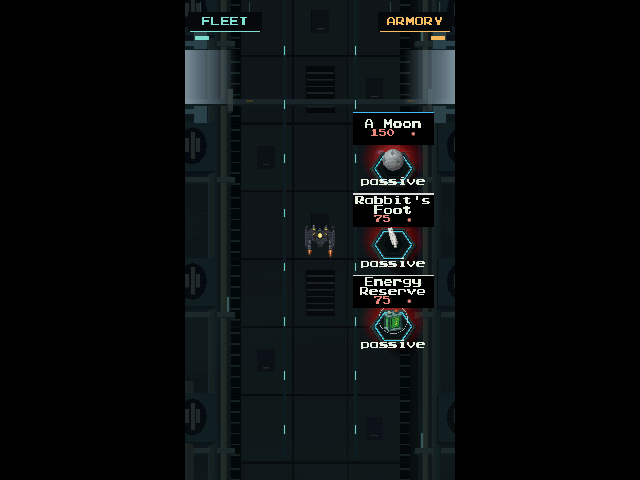
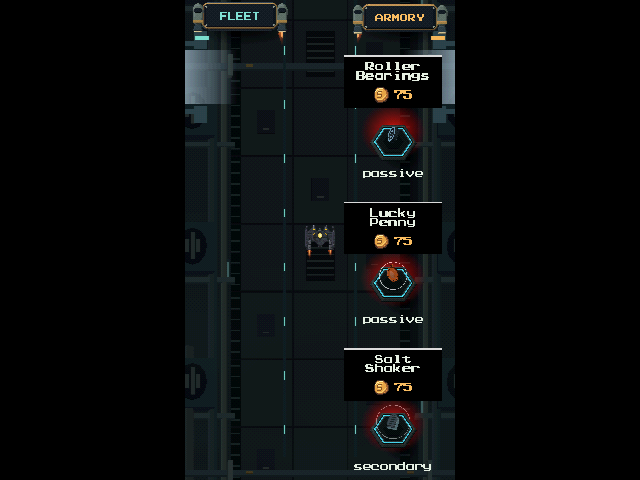
Space the three outfitter offers and give each price its own stamped coin row

diff --git a/Assets/Scripts/Run/HangarHub.cs b/Assets/Scripts/Run/HangarHub.cs
@@ -20,7 +20,8 @@ public sealed partial class HangarHub : MonoBehaviour
     static RunDifficulty difficulty = RunDifficulty.Normal;
     // The tunnel phase on the frame its motion transfers to the incoming dock camera.
     static float tunnelTravel;
-    static readonly Vector2[] plinthSpots = { new Vector2(2.7f, -3), new Vector2(2.7f, 0), new Vector2(2.7f, 3) };
+    static readonly Vector2[] plinthSpots = { new Vector2(2.7f, -6.8f), new Vector2(2.7f, -1.4f), new Vector2(2.7f, 4) };
+    const float PlacardHeight = 1.84f, ClassDrop = 1.54f;
     public const float DeckExtension = 32f;
     const float PlinthReach = .95f, GateHalfWidth = 1.55f;
 
@@ -31,8 +32,8 @@ public sealed partial class HangarHub : MonoBehaviour
         public Vector3 spot;
         public Transform disc, shadow;
         public bool sent, positioned;
-        public TextMeshProUGUI label;
-        public RectTransform category;
+        public TextMeshProUGUI price;
+        public RectTransform plaque, category;
         public int lastBank = -1;
         public bool pinned;
     }
@@ -137,8 +138,10 @@ public sealed partial class HangarHub : MonoBehaviour
 
     DockReadouts readouts;
     Material scenery;
-    Transform stockScreen;
+    RectTransform stockScreen;
     TextMeshProUGUI stockInfo, walletText;
+    RectTransform walletPanel;
+    Sprite coinStamp;
     Dialog dialog;
     readonly List<Mesh> quads = new List<Mesh>();
     bool launching, deckReady;
@@ -239,6 +242,7 @@ public sealed partial class HangarHub : MonoBehaviour
     void BuildShop()
     {
         dialog = GameObject.FindGameObjectWithTag("Dialog")?.GetComponent<Dialog>();
+        coinStamp = Resources.Load<Sprite>("DockArt/DockCoin");
         var stock = MetaProgress.Stock;
         var glowVertices = new List<Vector3>();
         var glowColors = new List<Color>();
@@ -264,29 +268,57 @@ public sealed partial class HangarHub : MonoBehaviour
             plinths.Add(plinth);
             GalleryWell(glowVertices, glowColors, glowTriangles, plinthSpots[i], 1.22f,
                 new Color(1, .07f, .035f, .88f), new Color(.85f, .025f, .016f, 0));
-            var plaque = MountedPanel("Stock placard", plinthSpots[i] + Vector2.up * 1.11f, new Vector2(3, 1.23f));
+            var plaque = plinth.plaque = MountedPanel("Stock placard", plinthSpots[i] + Vector2.up * PlacardHeight, new Vector2(3.62f, 1.94f));
             plaque.GetComponent<Image>().color = Color.black;
-            DockInstrument.Block(plaque, "Rarity edge", new Vector2(0, 59), new Vector2(300, 5), AItem.GetRarityColor(plinth.item.rarity));
-            plinth.category = MountedPanel("Equipment class", plinthSpots[i] + Vector2.down * .85f, new Vector2(3, .45f));
+            DockInstrument.Block(plaque, "Rarity edge", new Vector2(0, 94), new Vector2(362, 5), AItem.GetRarityColor(plinth.item.rarity));
+            WorldLabel(plaque, plinth.item.GetData()[0], new Vector2(0, 38), new Vector2(338, 91), 34, DockInstrument.Paper);
+            plinth.price = CoinRow(plaque, -49, 330);
+            plinth.category = MountedPanel("Equipment class", plinthSpots[i] + Vector2.down * ClassDrop, new Vector2(3.4f, .50f));
             plinth.category.GetComponent<Image>().enabled = false;
-            WorldLabel(plinth.category, DecisionOverlay.Category(plinth.item), Vector2.zero, new Vector2(286, 47), 34, DockInstrument.Paper);
-            plinth.label = WorldLabel(plaque, "", Vector2.zero, new Vector2(289, 115), 35, DockInstrument.Paper);
+            WorldLabel(plinth.category, DecisionOverlay.Category(plinth.item), Vector2.zero, new Vector2(334, 50), 32, DockInstrument.Paper);
             plaque.gameObject.SetActive(false);
             plinth.category.gameObject.SetActive(false);
         }
         GallerySurface("Outfitter red footlights", glowVertices, glowColors, glowTriangles, -6);
     }
 
+    TextMeshProUGUI CoinRow(RectTransform face, float y, float width)
+    {
+        var row = new GameObject("Coin amount", typeof(RectTransform), typeof(HorizontalLayoutGroup)).GetComponent<RectTransform>();
+        row.SetParent(face, false);
+        row.anchoredPosition = new Vector2(0, y);
+        row.sizeDelta = new Vector2(width, 62);
+        var layout = row.GetComponent<HorizontalLayoutGroup>();
+        layout.childAlignment = TextAnchor.MiddleCenter;
+        layout.spacing = 21;
+        layout.childForceExpandWidth = layout.childForceExpandHeight = false;
+        layout.childControlWidth = layout.childControlHeight = true;
+        var icon = new GameObject("Stamped coin", typeof(RectTransform), typeof(Image), typeof(LayoutElement)).GetComponent<Image>();
+        icon.transform.SetParent(row, false);
+        icon.sprite = coinStamp;
+        icon.raycastTarget = false;
+        var dimensions = icon.GetComponent<LayoutElement>();
+        dimensions.preferredWidth = dimensions.preferredHeight = 56;
+        var amount = WorldLabel(row, "0", Vector2.zero, row.sizeDelta, 34, DockInstrument.Brass);
+        amount.enableAutoSizing = false;
+        amount.textWrappingMode = TextWrappingModes.NoWrap;
+        return amount;
+    }
+
     void UpdateWallet()
     {
-        bool near = player != null && player.transform.position.x > center.x + 1 &&
-            Mathf.Abs(player.transform.position.y - center.y) < 5.8f && room < 0;
-        walletText.transform.parent.gameObject.SetActive(near);
-        walletText.text = "●  " + MetaProgress.Coins;
-        int closest = NearestPlinth(player.transform.position);
-        stockScreen.gameObject.SetActive(closest >= 0 && room < 0);
+        int near = room < 0 ? NearestPlinth(player.transform.position, 2.45f) : -1;
+        walletPanel.gameObject.SetActive(near >= 0);
+        if (near >= 0)
+        {
+            readouts.Aim(walletPanel, plinths[near].spot + new Vector3(-4.22f, 2.24f));
+            walletText.text = MetaProgress.Coins.ToString();
+        }
+        int closest = near >= 0 ? NearestPlinth(player.transform.position) : -1;
+        stockScreen.gameObject.SetActive(closest >= 0);
         if (closest >= 0)
         {
+            readouts.Aim(stockScreen, plinths[closest].spot + Vector3.left * 4.22f);
             var data = plinths[closest].item.GetData();
             stockInfo.text = data[2] + "\n\n<size=80%>" +
                 DockInstrument.FireKey() + " BUY  " + DockInstrument.FireKey(true) + " PIN</size>";
@@ -463,12 +495,12 @@ public sealed partial class HangarHub : MonoBehaviour
                 continue;
             if (offer.item.enabled && offer.sent && offer.item.Settled)
                 offer.item.enabled = false;
-            offer.label.transform.parent.gameObject.SetActive(offer.sent && !offer.item.IsDismissing);
+            offer.plaque.gameObject.SetActive(offer.sent && !offer.item.IsDismissing);
             offer.category.gameObject.SetActive(offer.sent && !offer.item.IsDismissing);
             if (offer.sent && !offer.positioned)
             {
-                readouts.Aim((RectTransform)offer.label.transform.parent, offer.item.transform.position + Vector3.up * 1.11f);
-                readouts.Aim(offer.category, offer.item.transform.position + Vector3.down * .85f);
+                readouts.Aim(offer.plaque, offer.item.transform.position + Vector3.up * PlacardHeight);
+                readouts.Aim(offer.category, offer.item.transform.position + Vector3.down * ClassDrop);
                 offer.positioned = offer.item.Settled;
             }
             bool pinned = MetaProgress.Pin == offer.kind;
@@ -477,9 +509,8 @@ public sealed partial class HangarHub : MonoBehaviour
             offer.lastBank = MetaProgress.Coins;
             offer.pinned = pinned;
             int price = MetaProgress.Price(offer.item.rarity);
-            string tint = MetaProgress.Coins >= price ? "#F4C16C" : "#EB8A7C";
-            offer.label.text = offer.item.GetData()[0] + "\n<size=85%><color=" + tint + ">" +
-                (MetaProgress.Pin == offer.kind ? "PIN  " : "") + price + "  ●</color></size>";
+            offer.price.color = MetaProgress.Coins >= price ? DockInstrument.Brass : new Color(.92f, .54f, .49f);
+            offer.price.text = price + (pinned ? "  <size=65%>PIN</size>" : "");
         }
         UpdateWallet();
     }
@@ -496,10 +527,10 @@ public sealed partial class HangarHub : MonoBehaviour
         cameraTravel = travel;
     }
 
-    int NearestPlinth(Vector3 p)
+    int NearestPlinth(Vector3 p, float reach = PlinthReach)
     {
         int best = -1;
-        float closest = PlinthReach;
+        float closest = reach;
         for (int i = 0; i < plinths.Count; i++)
         {
             if (plinths[i].item == null || plinths[i].item.IsDismissing)

diff --git a/Assets/Editor/Checks/VerifyHangarDeck.cs b/Assets/Editor/Checks/VerifyHangarDeck.cs
@@ -66,6 +66,11 @@ public static class VerifyHangarDeck
         SessionState.SetBool("InspectDockLane", true);
         Run();
     }
+    public static void Outfitter()
+    {
+        SessionState.SetBool("InspectOutfitter", true);
+        Run();
+    }
     public static void Endings()
     {
         SessionState.SetBool("InspectFlightEndings", true);
@@ -114,6 +119,9 @@ public sealed class HangarDeckReview : MonoBehaviour
             throw new InvalidOperationException("Dock review needs its disposable checkout");
         var scratch = Directory.CreateDirectory(Path.Combine(project, "Temp", "PilotReview", Guid.NewGuid().ToString("N")));
         MetaProgress.ReviewSaveDirectory = scratch.FullName;
+        if (SessionState.GetBool("InspectOutfitter", false))
+            File.WriteAllText(Path.Combine(scratch.FullName, "hangar.json"),
+                "{\"version\":2,\"lastFrame\":1,\"coins\":9999,\"ship\":\"GR07\",\"unlocked\":[\"Popcorn\"],\"stock\":[\"SaltShaker\",\"LuckyPenny\",\"RollerBearings\"],\"loadout\":[]}");
         Application.runInBackground = true;
         Application.logMessageReceived += OnLog;
     }
@@ -210,6 +218,14 @@ public sealed class HangarDeckReview : MonoBehaviour
         while ((hub = FindAnyObjectByType<HangarHub>()) == null || CloudTransition.Busy || HangarHub.HoldingShip)
             yield return null;
         yield return new WaitForSecondsRealtime(2);
+        if (SessionState.GetBool("InspectOutfitter", false))
+        {
+            SessionState.SetBool("InspectOutfitter", false);
+            yield return OutfitterAndBerths();
+            Check(error == null, error ?? "no gameplay errors in the outfitter or fleet");
+            File.WriteAllText(VerifyHangarDeck.Folder + "/Result.txt", "PASS");
+            yield break;
+        }
         if(SessionState.GetBool("InspectPressureDoor",false))
         {
             SessionState.SetBool("InspectPressureDoor",false);
@@ -381,6 +397,85 @@ public sealed class HangarDeckReview : MonoBehaviour
         }
         Debug.Log("Gallery population " + Frames(timings));
     }
+    IEnumerator OutfitterAndBerths()
+    {
+        InputSystem.settings.editorInputBehaviorInPlayMode = InputSettings.EditorInputBehaviorInPlayMode.AllDeviceInputAlwaysGoesToGameView;
+        var keys = InputSystem.AddDevice<Keyboard>();
+        void Press(params Key[] state)
+        {
+            InputSystem.QueueStateEvent(keys, new KeyboardState(state));
+            InputSystem.Update();
+        }
+        var ship = FindAnyObjectByType<Shipcontroller>().transform;
+        void Place(float x, float y) => ship.position = new Vector3(x, y, ship.position.z);
+        T Field<T>(string name) => (T)typeof(HangarHub).GetField(name, BindingFlags.Instance | BindingFlags.NonPublic).GetValue(hub);
+        Place(0, 0);
+        yield return Capture("OutfitterSpacing");
+        var offers = hub.GetComponentsInChildren<AItem>().OrderBy(o => o.transform.position.y).ToArray();
+        Check(offers.Length == 3 && offers[1].GetData()[0] == "Lucky Penny" &&
+            offers[1].transform.position.y - offers[0].transform.position.y > 5 &&
+            offers[2].transform.position.y - offers[1].transform.position.y > 5, "three separated right-lane offers from the reference");
+        var rows = hub.GetComponentsInChildren<HorizontalLayoutGroup>().Where(row => row.transform.parent.name == "Stock placard").ToArray();
+        Check(rows.Length == 3, "each stock placard has a dedicated price row");
+        foreach (var row in rows)
+        {
+            var icon = row.GetComponentInChildren<Image>().rectTransform;
+            var number = row.GetComponentInChildren<TMPro.TMP_Text>().rectTransform;
+            var a = new Vector3[4];
+            var b = new Vector3[4];
+            icon.GetWorldCorners(a);
+            number.GetWorldCorners(b);
+            Check(icon.GetComponent<Image>().sprite.name == "DockCoin" && a[2].x - a[0].x >= 12 &&
+                b[0].x - a[2].x >= 4 && Mathf.Abs(icon.position.y - number.position.y) < 1,
+                "stamped coin and amount have separate, aligned bounds at gameplay size");
+        }
+        Check(!Field<RectTransform>("walletPanel").gameObject.activeSelf, "wallet stays dark away from stock");
+        Place(2.7f, -1.4f);
+        yield return Capture("OutfitterPrice");
+        Check(Field<RectTransform>("walletPanel").gameObject.activeSelf && Field<TMPro.TMP_Text>("walletText").text == "9999", "nearby wallet reads the full bank");
+        Press(Key.X);
+        yield return null;
+        Press();
+        Check(MetaProgress.Pin == "LuckyPenny", "secondary pins the approached offer");
+        int cost = MetaProgress.Price(offers[1].rarity);
+        Press(Key.Z);
+        yield return null;
+        Press();
+        Check(!MetaProgress.Stock.Contains("LuckyPenny") && MetaProgress.Coins == 9999 - cost, "buying debits the displayed price");
+        Place(-23.6f, 6);
+        yield return new WaitForSeconds(.8f);
+        yield return Capture("FleetBerths");
+        var hulls = Field<System.Collections.Generic.List<Transform>>("parkedShips");
+        for (int i = 0; i < hulls.Count; i++)
+        {
+            bool locked = !MetaProgress.CanFly((ShipFrame)i);
+            Check(hulls[i].GetComponentsInChildren<MeshRenderer>(true).All(r => r.sharedMaterials.All(m =>
+                (m.shader.name == "Shootemup/Gallery silhouette") == locked)), "fleet paint follows the hull's unlock");
+        }
+        var ember = hulls[(int)ShipFrame.Ember].position;
+        Place(ember.x, ember.y);
+        yield return new WaitForSeconds(.5f);
+        Press(Key.Z);
+        yield return null;
+        Press();
+        Check(MetaProgress.Ship == ShipFrame.GR07 && Field<TMPro.TMP_Text>("berthNotice").text.Contains("Lancer"),
+            "locked berth explains its release condition and cannot equip");
+        Place(-12.75f, 1.6f);
+        yield return Capture("FleetLockedRecord");
+        var portrait = GameObject.Find("FLEET mounted screen").GetComponentsInChildren<RawImage>()
+            .Single(im => im.texture.name == "PortraitEmber");
+        Check(portrait.color == Color.black, "locked fleet portrait is a silhouette");
+        var lancer = hulls[(int)ShipFrame.Lancer].position;
+        Place(lancer.x, lancer.y);
+        yield return new WaitForSeconds(.4f);
+        Press(Key.Z);
+        yield return null;
+        Press();
+        Check(MetaProgress.Ship == ShipFrame.Lancer && !hulls[(int)ShipFrame.Lancer].gameObject.activeSelf &&
+            hulls[(int)ShipFrame.GR07].gameObject.activeSelf, "commissioned hull swaps normally and leaves its berth empty");
+        InputSystem.RemoveDevice(keys);
+    }
+
     IEnumerator PhysicalRooms()
     {
         InputSystem.settings.backgroundBehavior = InputSettings.BackgroundBehavior.IgnoreFocus;
@@ -422,7 +517,7 @@ public sealed class HangarDeckReview : MonoBehaviour
         }
         if (!directoryOnly)
         {
-            Place(2.7f, 0);
+            Place(2.7f, -1.4f);
             yield return Capture("CRTOutfitter");
             Place(0, 6);
             yield return new WaitForSeconds(.8f);

diff --git a/Assets/Scripts/Run/HangarConcourse.cs b/Assets/Scripts/Run/HangarConcourse.cs
@@ -285,10 +285,11 @@ public sealed partial class HangarHub
             HoverSign(signs[i], new Vector2(side * 2.95f, y + 2.25f), lamps[i]);
             PortalLight(new Vector2(side * 4.55f, y), side);
         }
-        var walletPanel = MountedPanel("Coin reader", new Vector2(2.7f, 5.3f), new Vector2(2.4f, .7f));
-        walletText = WorldLabel(walletPanel, "", Vector2.zero, new Vector2(228, 60), 36, DockInstrument.Brass);
-        stockScreen = MountedPanel("Outfitter display", new Vector2(-1.42f, 0), new Vector2(4.9f, 3.3f));
-        stockInfo = WorldLabel((RectTransform)stockScreen, "", Vector2.zero, new Vector2(466, 300), 25, DockInstrument.Paper);
+        walletPanel = MountedPanel("Coin reader", Vector2.zero, new Vector2(3.1f, .88f));
+        walletText = CoinRow(walletPanel, 0, 296);
+        walletPanel.gameObject.SetActive(false);
+        stockScreen = MountedPanel("Outfitter display", Vector2.zero, new Vector2(4.35f, 3.08f));
+        stockInfo = WorldLabel(stockScreen, "", Vector2.zero, new Vector2(413, 286), 25, DockInstrument.Paper);
         stockScreen.gameObject.SetActive(false);
         Stencil("LAUNCH", new Vector2(0, DeckExtension + 6.6f), 2.8f, DockInstrument.Paper);
     }

diff --git a/Tools/draw_dock_rooms.py b/Tools/draw_dock_rooms.py
@@ -54,6 +54,22 @@ def workshop_floor(w, fleet):
 
 workshop_floor(295, False)
 workshop_floor(454, True)
+
+# Price token. The three strokes on its face echo the modeled money pickup.
+coin = Image.new('RGBA', (16,16))
+mint = ImageDraw.Draw(coin)
+mint.polygon([(4,0),(10,0),(13,2),(15,5),(15,10),(12,14),(9,15),(4,15),(1,12),(0,9),(0,5),(2,2)], fill='#422c24')
+mint.polygon([(5,1),(10,1),(13,3),(14,5),(14,10),(11,13),(9,14),(5,14),(2,11)], fill='#a46331')
+mint.polygon([(4,1),(9,1),(12,4),(12,9),(9,12),(4,12),(1,9),(1,5)], fill='#e6a547')
+mint.line([(1,7),(1,5),(4,2),(8,1),(9,1)], fill='#fff1a3')
+mint.line([(4,12),(8,12),(12,8)], fill='#f5ce70')
+mint.line([(4,4),(6,3),(9,3)], fill='#f8ca68')
+mint.line([(8,4),(5,4),(4,5),(4,7),(8,7),(8,9),(7,10),(4,10)], fill='#805023')
+mint.line([(5,5),(7,5)], fill='#ffe798')
+mint.line([(5,8),(7,8)], fill='#feda84')
+for x,y in ((13,7),(13,10),(11,12)):
+    mint.point((x,y), fill='#df9d45')
+coin.save(out/'DockCoin.png')
 # Alternating steel shutter slats, fixed highlights and worn brass latch.
 im=Image.new('RGBA',(128,128),deep);d=ImageDraw.Draw(im)
 for y in range(0,128,16):

diff --git a/AGENTS.md b/AGENTS.md
@@ -170,8 +170,8 @@ These are the player's instructions. Preserve them across sessions and apply the
 
 ## Hangar and campaign completion (2 November 2026)
 
-- Group the three randomized shop items closely on the right of the main lane. Mount their readable prices and descriptions in the world and show the bank balance only when approached.
-- Build actual flyable side rooms with lit entrances, paired across the corridor. Fleet is left and Armory right, with Simulator and Recorder opposite each other farther up. Screens belong on the room walls. Fleet has a berth for every hull and a giant service screen with a directly drawn pixel portrait.
+- Keep the three randomized shop items on the right of the main lane, with clear vertical space between offers and between each placard, floating platform and category label. Give the stamped coin an aligned price row with its own padding. Show the bank balance only near stock.
+- Build actual flyable side rooms with lit entrances, paired across the corridor. Fleet is left and Armory right, with Simulator and Recorder opposite each other farther up. Screens belong on the room walls. Fleet has a berth for every hull and a giant service screen with a directly drawn pixel portrait. Render locked hulls and their Fleet portraits as black silhouettes.
 - Fly continuously through the live title tunnel into the hangar. Feed outfitter pickups in from the left with their run-style labels and red footlights. The departure light draws the ship in automatically. Let the ship fly freely across the room displays, in front of the glass and beneath the black side guards.
 - The camera follows travel vertically and into side rooms. Holding Focus doubles hangar movement speed and retains precision movement during a run.
 - Shorten the main and side corridors. Ease the flight and camera pan through doorways in both directions. Mark rooms with illuminated signs held aloft by two visible side thrusters, the departure gate's pale mist, and a keyboard or controller glyph over the console on approach. Keep slightly curved CRTs permanently mounted. Use restrained scan lines, the game's pixel lettering and a physical control pedestal.
